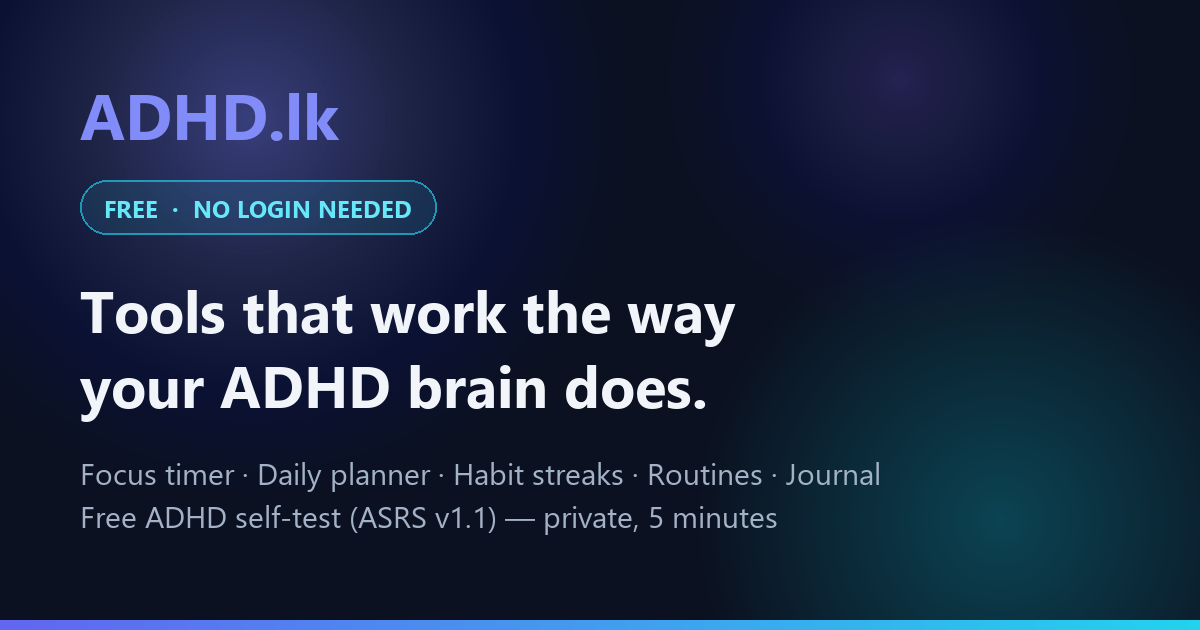
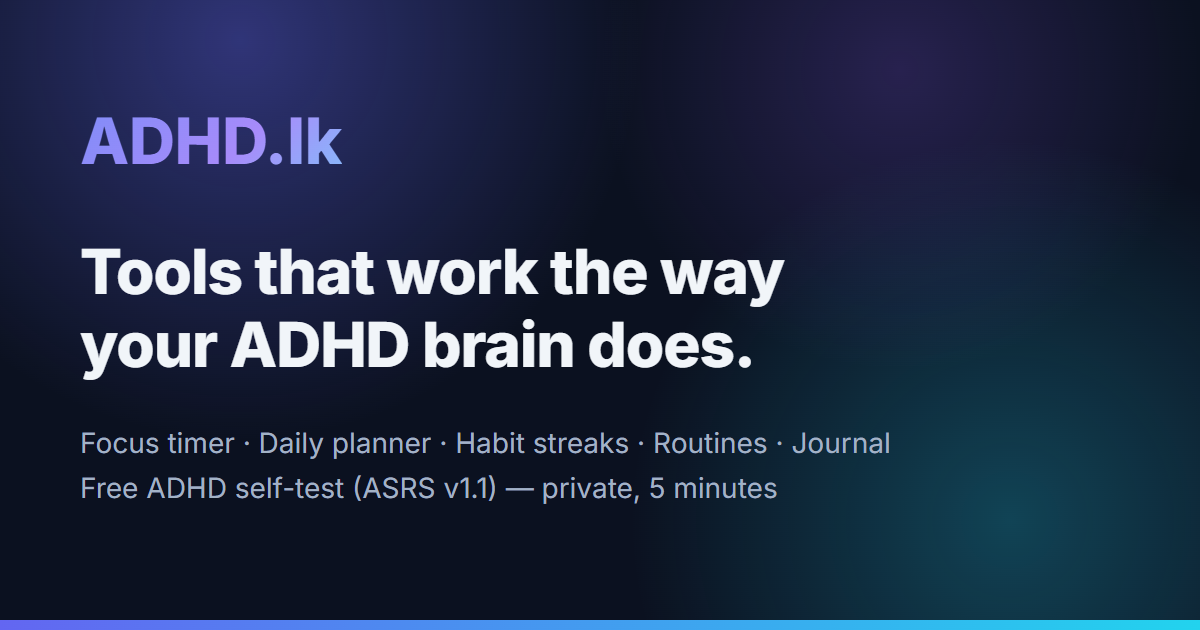
Link-preview image without the "no login needed" badge
Rebuild og-image.png from an HTML source (docs/og-image.html, with the
command to regenerate it) using the site's own Inter font and colours, and
version its URL so Cloudflare and social sites fetch the new picture.

Changed region(s): [[0.0617, 0.1508, 0.74, 0.8444], [0.0925, 0.0, 0.2775, 0.0603]]

diff --git a/docs/og-image.html b/docs/og-image.html
@@ -1,0 +1,71 @@
+<!doctype html>
+<!--
+  Source of public_html/assets/og-image.png (1200x630), the link-preview image
+  used by adhd.lk pages and the GitHub repo's social preview.
+
+  Regenerate (Windows, Git Bash) from the repo root:
+    "/c/Program Files/Google/Chrome/Application/chrome.exe" --headless=new \
+      --hide-scrollbars --window-size=1200,630 --force-device-scale-factor=1 \
+      --screenshot="$(cygpath -w public_html/assets/og-image.png)" \
+      "file:///$(cygpath -m docs/og-image.html)"
+  Then bump nothing (images are not versioned), deploy, and re-upload it under
+  GitHub Settings -> Social preview if that should change too.
+-->
+<html lang="en">
+<head>
+<meta charset="utf-8">
+<title>ADHD.lk link preview</title>
+<style>
+  @font-face {
+    font-family: 'Inter';
+    font-weight: 400 800;
+    src: url('../public_html/assets/fonts/inter-latin.woff2') format('woff2');
+  }
+  html, body { margin: 0; width: 1200px; height: 630px; overflow: hidden; }
+  body {
+    position: relative;
+    font-family: 'Inter', sans-serif;
+    color: #f1f5f9;
+    background:
+      radial-gradient(circle at 240px 40px, rgba(99, 102, 241, 0.42), transparent 400px),
+      radial-gradient(circle at 900px 70px, rgba(139, 92, 246, 0.22), transparent 300px),
+      radial-gradient(circle at 1010px 520px, rgba(34, 211, 238, 0.26), transparent 380px),
+      #0b1120;
+  }
+  .card {
+    position: absolute; inset: 0 0 10px 0;
+    padding: 0 80px;
+    display: flex; flex-direction: column; justify-content: center;
+  }
+  .logo {
+    font-size: 64px; font-weight: 800; letter-spacing: -0.5px; line-height: 1;
+    background: linear-gradient(135deg, #818cf8 0%, #a78bfa 60%, #67e8f9 140%);
+    -webkit-background-clip: text; background-clip: text;
+    -webkit-text-fill-color: transparent;
+    align-self: flex-start;
+    padding-bottom: 6px;
+  }
+  h1 {
+    margin: 56px 0 0;
+    font-size: 62px; font-weight: 800; line-height: 1.18; letter-spacing: -1px;
+  }
+  p {
+    margin: 40px 0 0;
+    font-size: 28px; font-weight: 400; line-height: 1.6;
+    color: #a3b2c6;
+  }
+  .bar {
+    position: absolute; left: 0; right: 0; bottom: 0; height: 10px;
+    background: linear-gradient(90deg, #6366f1, #22d3ee);
+  }
+</style>
+</head>
+<body>
+  <div class="card">
+    <div class="logo">ADHD.lk</div>
+    <h1>Tools that work the way<br>your ADHD brain does.</h1>
+    <p>Focus timer · Daily planner · Habit streaks · Routines · Journal<br>Free ADHD self-test (ASRS v1.1) — private, 5 minutes</p>
+  </div>
+  <div class="bar"></div>
+</body>
+</html>

diff --git a/public_html/article.php b/public_html/article.php
@@ -144,7 +144,7 @@ $page_jsonld = '<script type="application/ld+json">' . json_encode([
     'datePublished' => $published,
     'dateModified' => date('c', $updated_ts),
     'mainEntityOfPage' => $art_url,
-    'image' => $article['image_url'] ?: 'https://adhd.lk/assets/og-image.png',
+    'image' => $article['image_url'] ?: 'https://adhd.lk/assets/og-image.png?v=20261116',
     'author' => ['@type' => 'Person', 'name' => $author_name, 'url' => 'https://adhd.lk/about'],
     'publisher' => ['@type' => 'Organization', 'name' => 'ADHD.lk', 'url' => 'https://adhd.lk/', 'logo' => ['@type' => 'ImageObject', 'url' => 'https://adhd.lk/assets/icon-512.svg']]
 ], JSON_UNESCAPED_UNICODE | JSON_UNESCAPED_SLASHES) . '</script>';

diff --git a/public_html/includes/header.php b/public_html/includes/header.php
@@ -13,7 +13,7 @@ $page_desc = isset($page_desc) ? $page_desc : t('meta_default');
 $request_path = parse_url($_SERVER['REQUEST_URI'], PHP_URL_PATH);
 if ($request_path === '/index') { $request_path = '/'; }
 $page_canonical = isset($page_canonical) ? $page_canonical : ('https://adhd.lk' . $request_path);
-$page_og_image = isset($page_og_image) ? $page_og_image : 'https://adhd.lk/assets/og-image.png';
+$page_og_image = isset($page_og_image) ? $page_og_image : 'https://adhd.lk/assets/og-image.png?v=20261116';
 $skip_hreflang = isset($skip_hreflang) ? $skip_hreflang : false;
 $page_lang = isset($page_lang) ? $page_lang : current_lang();
 
